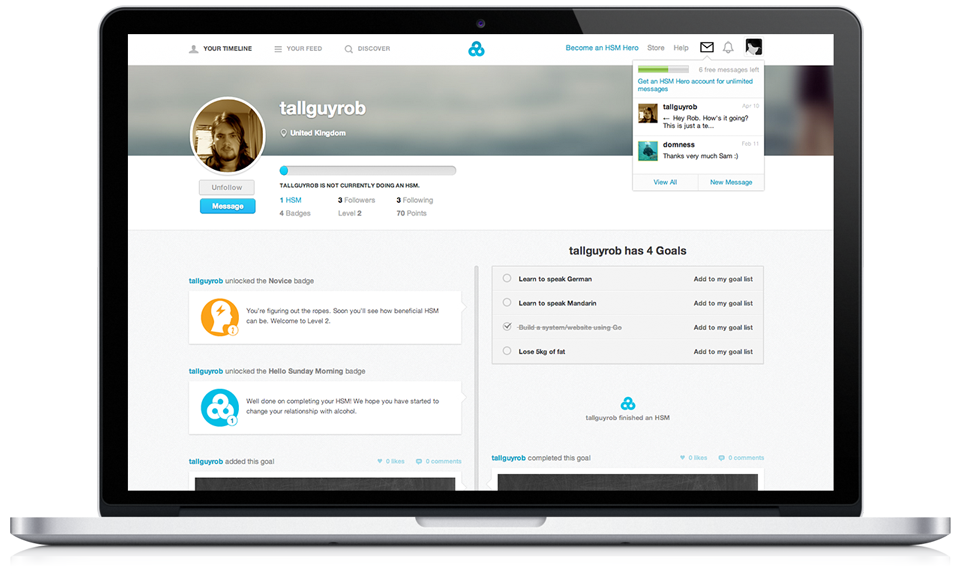
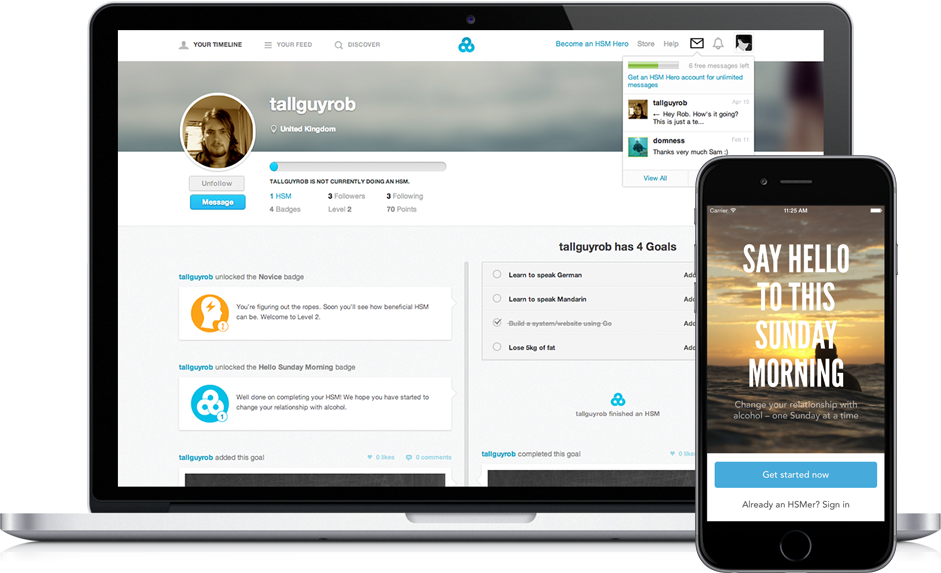
Update homepage and HSM page with HSM for iPhone

diff --git a/source/assets/stylesheets/application.css.scss b/source/assets/stylesheets/application.css.scss
@@ -358,21 +358,6 @@ body#about-us {
   }
 
   #services {
-    .service-image {
-      position: relative;
-      height: 300px;
-
-      img {
-        position: absolute;
-        display: block;
-        width: 115%;
-        height: auto;
-        margin-left: -$grid-gutter-width/2;
-        top: 110px;
-        margin-top: -20%;
-      }
-    }
-
     ul {
       margin-top: 2em;
       margin-bottom: 2em;
@@ -412,7 +397,36 @@ body#about-us {
     }
   }
 
+  #recent {
+    min-height: 250px;
+
+    a {
+      display: block;
+      text-decoration: none;
+
+      &:hover {
+        opacity: 0.8;
+      }
+    }
+
+    h1 {
+      margin: 0;
+      font-size: 0.7em;
+      line-height: 1.2;
+      text-transform: uppercase;
+      color: $gray-light;
+    }
+
+    .recent-image {
+      margin-right: $grid-gutter-width/2;
+      position: absolute;
+      z-index: 1;
+    }
+  }
+
   #about {
+    position: relative;
+    z-index: 2;
     background-color: $pale-green;
 
     h2 {
@@ -719,9 +733,8 @@ body#blog {
       margin-right: 0.2ex;
     }
 
-    #history {
+    #recent, #history {
       padding-left: $grid-gutter-width;
-      padding-right: 0;
     }
   }
 
@@ -781,6 +794,10 @@ body#blog {
 
     #team li {
       margin-bottom: 1em;
+    }
+
+    #recent {
+      margin-top: 40px;
     }
   }
 
